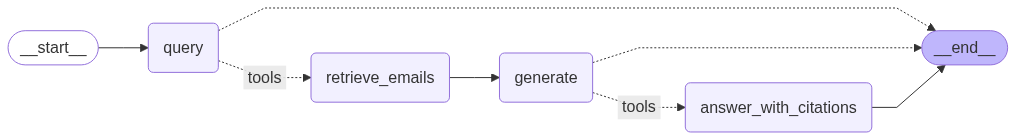
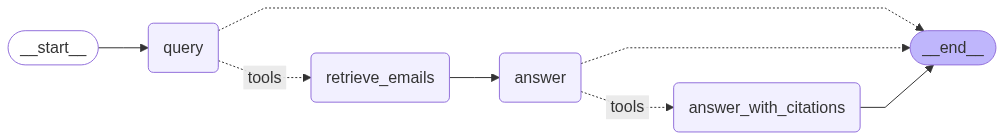
Enable thinking for answer

diff --git a/graph.py b/graph.py
@@ -9,7 +9,7 @@ import os
 
 # Local modules
 from retriever import BuildRetriever
-from prompts import query_prompt, generate_prompt, generic_tools_template
+from prompts import query_prompt, answer_prompt, generic_tools_template
 from mods.tool_calling_llm import ToolCallingLLM
 
 # For tracing (disabled)
@@ -94,6 +94,7 @@ def BuildGraph(
     search_type,
     top_k=6,
     think_query=False,
+    think_answer=False,
 ):
     """
     Build conversational RAG graph for email retrieval and answering with citations.
@@ -103,7 +104,8 @@ def BuildGraph(
         compute_mode: remote or local (for retriever)
         search_type: dense, sparse, or hybrid (for retriever)
         top_k: number of documents to retrieve
-        think_query: Whether to use thinking mode for query
+        think_query: Whether to use thinking mode for the query
+        think_answer: Whether to use thinking mode for the answer
 
     Based on:
         https://python.langchain.com/docs/how_to/qa_sources
@@ -120,8 +122,10 @@ def BuildGraph(
         # Add simple in-memory checkpointer
         from langgraph.checkpoint.memory import MemorySaver
         memory = MemorySaver()
-        # Compile app and draw graph
+        # Compile app
         app = graph.compile(checkpointer=memory)
+        # Draw graph
+        # nb. change orientation (TD to LR) in langchain_core/runnables/graph_mermaid.py
         #app.get_graph().draw_mermaid_png(output_file_path="graph.png")
 
         # Run app
@@ -193,11 +197,11 @@ def BuildGraph(
             chat_model, query_prompt(chat_model, think=think_query)
         ).bind_tools([retrieve_emails])
         # Don't use answer_with_citations tool because responses with are sometimes unparseable
-        generate_model = chat_model
+        answer_model = chat_model
     else:
         # For remote model (OpenAI API)
         query_model = chat_model.bind_tools([retrieve_emails])
-        generate_model = chat_model.bind_tools([answer_with_citations])
+        answer_model = chat_model.bind_tools([answer_with_citations])
 
     # Initialize the graph object
     graph = StateGraph(MessagesState)
@@ -216,27 +220,29 @@ def BuildGraph(
 
         return {"messages": response}
 
-    def generate(state: MessagesState):
+    def answer(state: MessagesState):
         """Generates an answer with the chat model"""
         if is_local:
             messages = state["messages"]
-            # print_message_summaries(messages, "--- generate: before normalization ---")
+            # print_message_summaries(messages, "--- answer: before normalization ---")
             messages = normalize_messages(messages)
             # Add the system message here because we're not using tools
-            messages = [SystemMessage(generate_prompt(chat_model))] + messages
-            # print_message_summaries(messages, "--- generate: after normalization ---")
+            messages = [
+                SystemMessage(answer_prompt(chat_model, think=think_answer))
+            ] + messages
+            # print_message_summaries(messages, "--- answer: after normalization ---")
         else:
             messages = [
-                SystemMessage(generate_prompt(chat_model, with_tools=True))
+                SystemMessage(answer_prompt(chat_model, with_tools=True))
             ] + state["messages"]
-        response = generate_model.invoke(messages)
+        response = answer_model.invoke(messages)
 
         return {"messages": response}
 
     # Define model and tool nodes
     graph.add_node("query", query)
-    graph.add_node("generate", generate)
     graph.add_node("retrieve_emails", ToolNode([retrieve_emails]))
+    graph.add_node("answer", answer)
     graph.add_node("answer_with_citations", ToolNode([answer_with_citations]))
 
     # Route the user's input to the query model
@@ -249,13 +255,13 @@ def BuildGraph(
         {END: END, "tools": "retrieve_emails"},
     )
     graph.add_conditional_edges(
-        "generate",
+        "answer",
         tools_condition,
         {END: END, "tools": "answer_with_citations"},
     )
 
     # Add edge from the retrieval tool to the generating model
-    graph.add_edge("retrieve_emails", "generate")
+    graph.add_edge("retrieve_emails", "answer")
 
     # Done!
     return graph

diff --git a/app.py b/app.py
@@ -88,7 +88,7 @@ def run_workflow(input, history, compute_mode, thread_id, session_hash):
         # Get the chat model and build the graph
         chat_model = GetChatModel(compute_mode)
         graph_builder = BuildGraph(
-            chat_model, compute_mode, search_type, think_query=True
+            chat_model, compute_mode, search_type, think_answer=True
         )
         # Compile the graph with an in-memory checkpointer
         memory = MemorySaver()
@@ -184,7 +184,7 @@ def run_workflow(input, history, compute_mode, thread_id, session_hash):
             retrieved_emails = "\n\n".join(retrieved_emails)
             yield history, retrieved_emails, []
 
-        if node == "generate":
+        if node == "answer":
             # Append messages (thinking and non-thinking) to history
             chunk_messages = chunk["messages"]
             history = append_content(chunk_messages, history, thinking_about="answer")
@@ -383,8 +383,9 @@ with gr.Blocks(
             status_text = f"""
             📍 Now in **local** mode, using ZeroGPU hardware<br>
             ⌛ Response time is about one minute<br>
-            🔍 Thinking is enabled for the query<br>
-            &emsp;&nbsp; 🧠 Add **/think** to enable thinking for the answer</br>
+            🧠 Thinking is enabled for the answer<br>
+            &emsp;&nbsp; 🔍 Add **/think** to enable thinking for the query</br>
+            &emsp;&nbsp; 🚫 Add **/no_think** to disable all thinking</br>
             ✨ [nomic-embed-text-v1.5](https://huggingface.co/nomic-ai/nomic-embed-text-v1.5) and [{model_id.split("/")[-1]}](https://huggingface.co/{model_id})<br>
             🏠 See the project's [GitHub repository](https://github.com/jedick/R-help-chat)
             """
@@ -412,15 +413,15 @@ with gr.Blocks(
         """Get example questions based on compute mode"""
         questions = [
             # "What is today's date?",
-            "Summarize emails from the last two months /think",
-            "Show me code examples using plotmath",
+            "Summarize emails from the last two months",
+            "Show me code examples using plotmath /no_think",
             "When was has.HLC mentioned?",
             "Who reported installation problems in 2023-2024?",
         ]
 
         if compute_mode == "remote":
-            # Remove "/think" from questions in remote mode
-            questions = [q.replace(" /think", "") for q in questions]
+            # Remove "/no_think" from questions in remote mode
+            questions = [q.replace(" /no_think", "") for q in questions]
 
         # cf. https://github.com/gradio-app/gradio/pull/8745 for updating examples
         return gr.Dataset(samples=[[q] for q in questions]) if as_dataset else questions

diff --git a/main.py b/main.py
@@ -23,7 +23,7 @@ from langchain_huggingface import ChatHuggingFace, HuggingFacePipeline
 from index import ProcessFile
 from retriever import BuildRetriever, db_dir
 from graph import BuildGraph
-from prompts import generate_prompt
+from prompts import answer_prompt
 
 # -----------
 # R-help-chat
@@ -201,7 +201,7 @@ def RunChain(
     chat_model = GetChatModel(compute_mode)
 
     # Get prompt with /no_think for SmolLM3/Qwen
-    system_prompt = generate_prompt(chat_model)
+    system_prompt = answer_prompt(chat_model)
 
     # Create a prompt template
     system_template = ChatPromptTemplate.from_messages([SystemMessage(system_prompt)])
@@ -236,8 +236,8 @@ def RunGraph(
     compute_mode: str = "remote",
     search_type: str = "hybrid",
     top_k: int = 6,
-    think_retrieve=False,
-    think_generate=False,
+    think_query=False,
+    think_answer=False,
     thread_id=None,
 ):
     """Run graph for conversational RAG app
@@ -247,8 +247,8 @@ def RunGraph(
         compute_mode: Compute mode for embedding and chat models (remote or local)
         search_type: Type of search to use. Options: "dense", "sparse", or "hybrid"
         top_k: Number of documents to retrieve
-        think_retrieve: Whether to use thinking mode for retrieval (tool-calling)
-        think_generate: Whether to use thinking mode for generation
+        think_query: Whether to use thinking mode for the query
+        think_answer: Whether to use thinking mode for the answer
         thread_id: Thread ID for memory (optional)
 
     Example:
@@ -263,8 +263,8 @@ def RunGraph(
         compute_mode,
         search_type,
         top_k,
-        think_retrieve,
-        think_generate,
+        think_query,
+        think_answer,
     )
 
     # Compile the graph with an in-memory checkpointer

diff --git a/mods/tool_calling_llm.py b/mods/tool_calling_llm.py
@@ -183,10 +183,18 @@ class ToolCallingLLM(BaseChatModel, ABC):
 
         # Parse output for JSON (support multiple objects separated by commas)
         try:
+            # Works for one or more JSON objects not enclosed in "[]"
             parsed_json_results = json.loads(f"[{post_think}]")
-        except json.JSONDecodeError:
-            # Return entire response if JSON wasn't parsed (or is missing)
-            return AIMessage(content=response_message.content)
+        except:
+            try:
+                # Works for one or more JSON objects already enclosed in "[]"
+                parsed_json_results = json.loads(f"{post_think}")
+            except json.JSONDecodeError:
+                # Return entire response if JSON wasn't parsed (or is missing)
+                return AIMessage(content=response_message.content)
+
+        # print("parsed_json_results")
+        # print(parsed_json_results)
 
         tool_calls = []
         for parsed_json_result in parsed_json_results:

diff --git a/prompts.py b/prompts.py
@@ -46,8 +46,8 @@ def query_prompt(chat_model, think=False):
     return prompt
 
 
-def generate_prompt(chat_model, think=False, with_tools=False):
-    """Return system prompt for generate step"""
+def answer_prompt(chat_model, think=False, with_tools=False):
+    """Return system prompt for answer step"""
     prompt = (
         f"Today Date: {date.today()}. "
         "You are a helpful chatbot designed to answer questions about R programming based on the R-help mailing list archives. "
